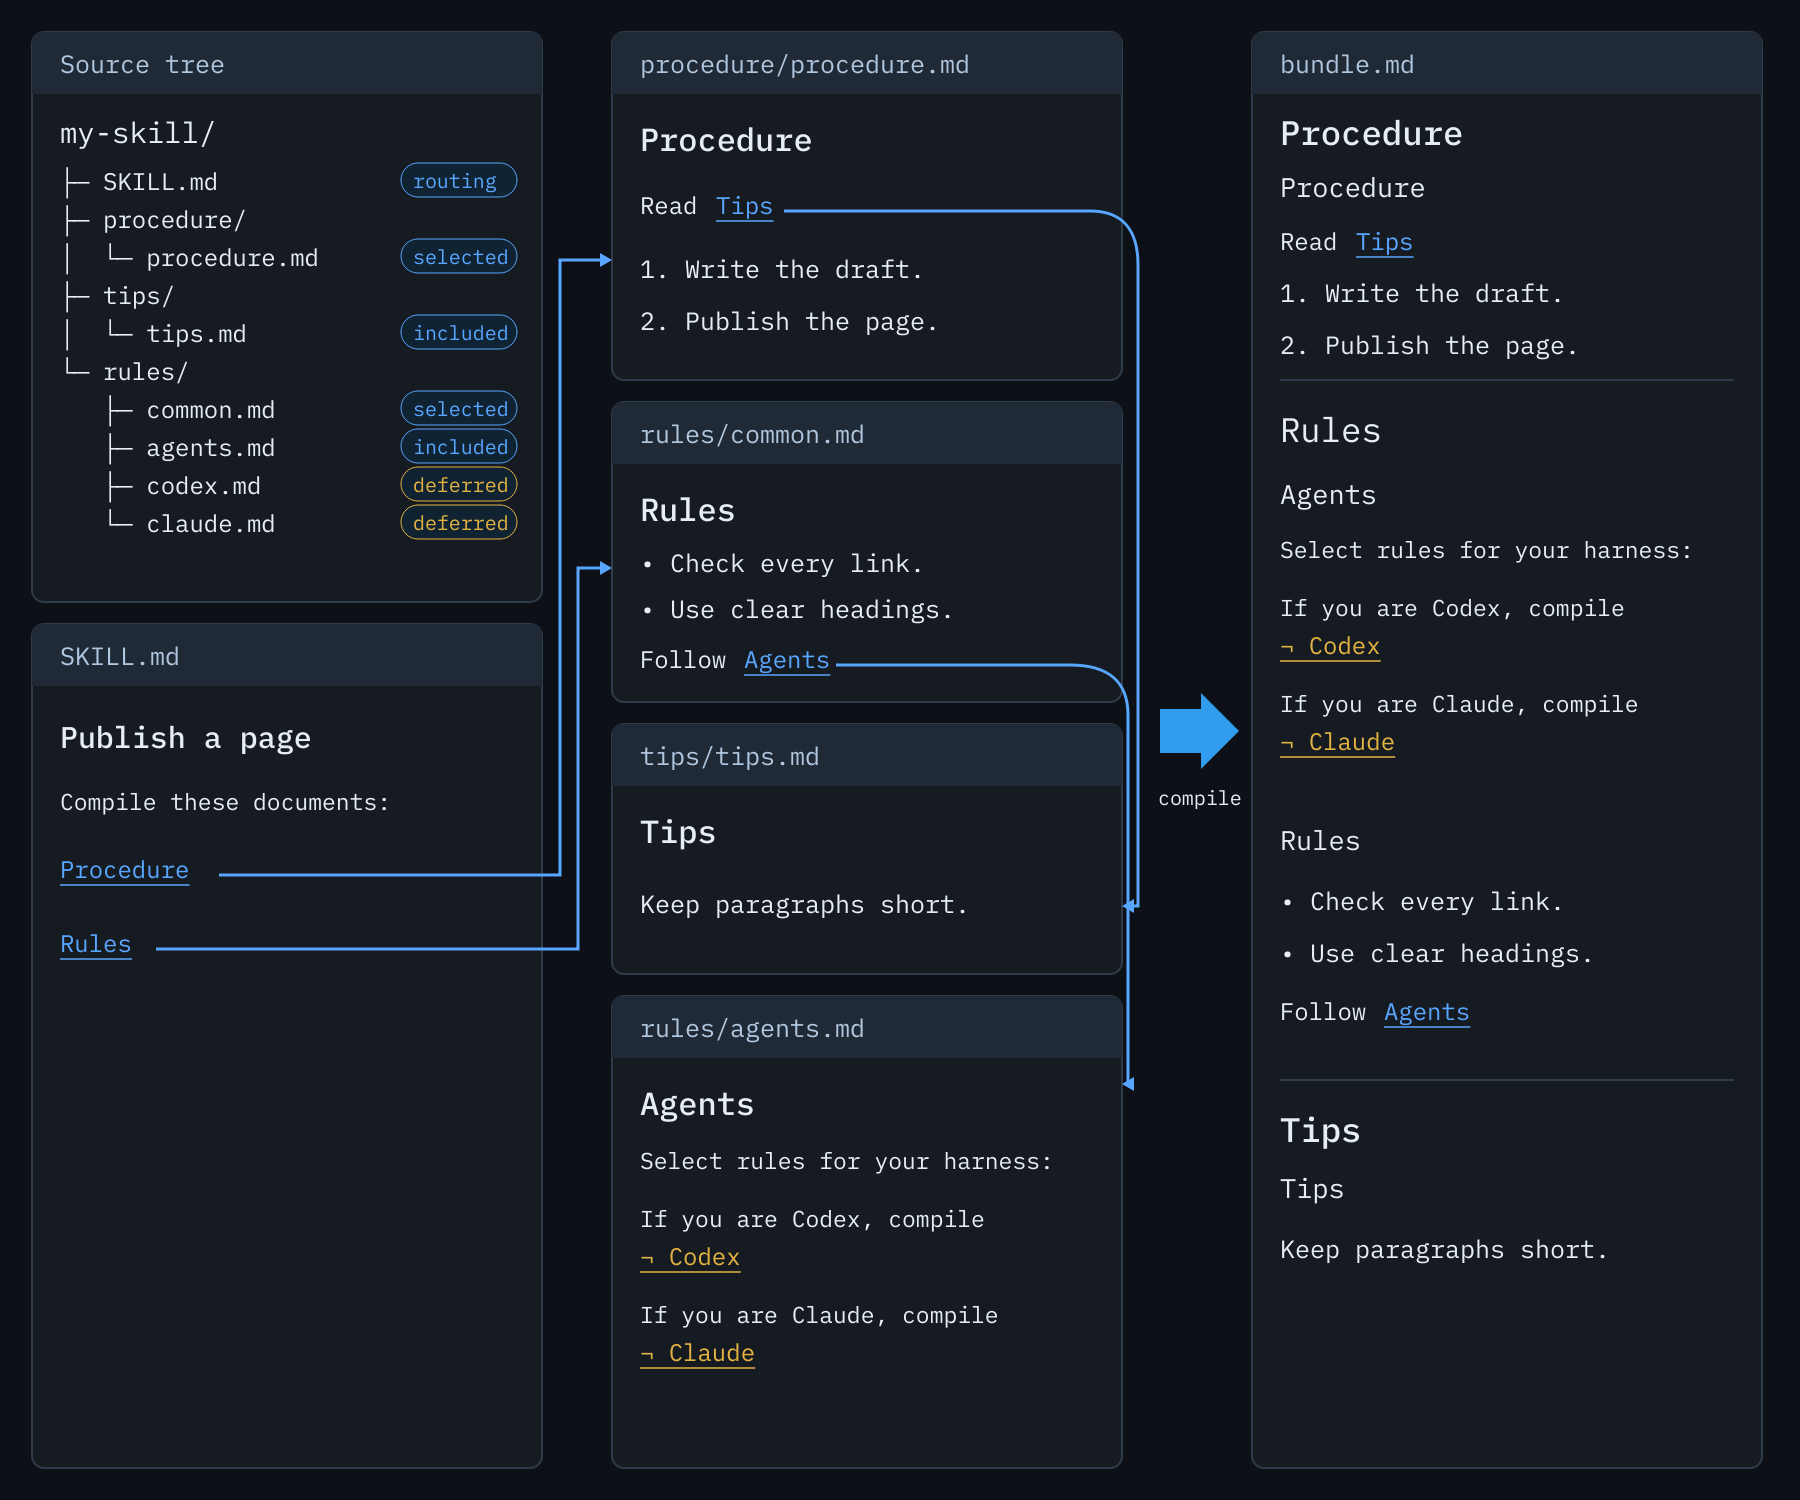
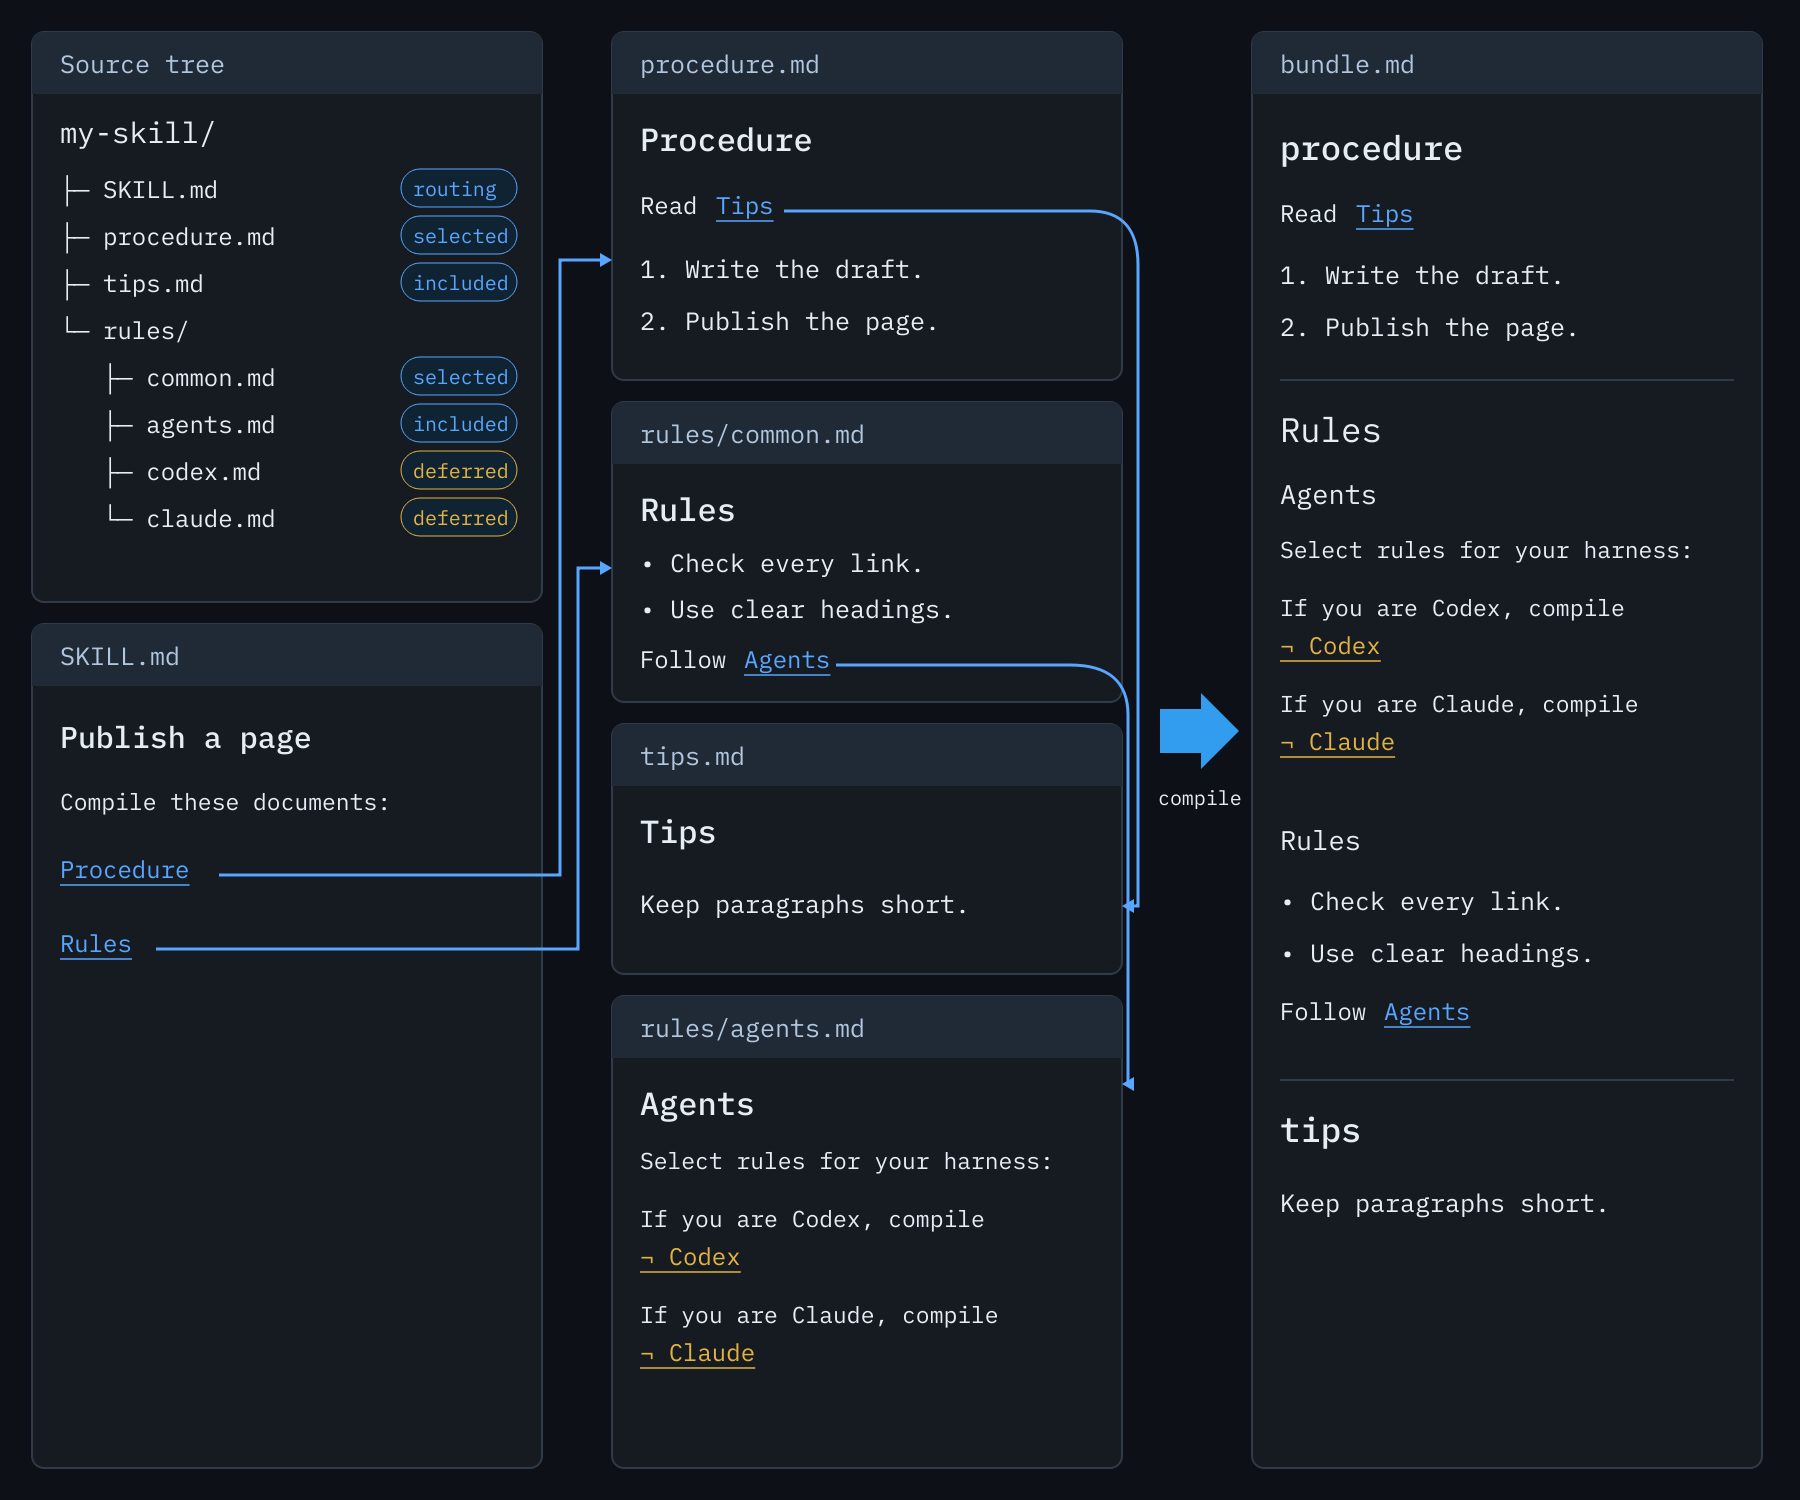
docs: keep procedure and tips at the example root

diff --git a/README.md b/README.md
@@ -33,11 +33,11 @@ Run these diagram examples from `example/`, using [my-skill](example/my-skill/SK
 
 ```bash
 prosiform --root my-skill \
-  --group procedure:1 --group rules:1 --group tips:1 \
-  --output bundle.md procedure/procedure.md rules/common.md
+  --group rules:1 \
+  --output bundle.md procedure.md rules/common.md
 ```
 
-![SKILL.md selects procedure/procedure.md and rules/common.md. Procedure includes tips/tips.md; Rules includes rules/agents.md. The bundle has Procedure, Rules, and Tips groups. Agents is a subsection of Rules and directs each harness to its deferred Codex or Claude rules. SKILL.md and the harness-specific rules are excluded.](docs/images/compilation.png)
+![SKILL.md selects procedure.md and rules/common.md. Procedure includes tips.md; Rules includes rules/agents.md. Agents is a subsection of the Rules group and directs each harness to its deferred Codex or Claude rules. SKILL.md and the harness-specific rules are excluded.](docs/images/compilation.png)
 
 #### Compile agent-specific rules
 

diff --git a/example/my-skill/SKILL.md b/example/my-skill/SKILL.md
@@ -2,6 +2,6 @@
 
 Compile these documents:
 
-[Procedure](procedure/procedure.md)
+[Procedure](procedure.md)
 
 [Rules](rules/common.md)

diff --git a/example/my-skill/procedure.md b/example/my-skill/procedure.md
@@ -1,6 +1,6 @@
 # Procedure
 
-Read [Tips](../tips/tips.md)
+Read [Tips](tips.md)
 
 1. Write the draft.
 2. Publish the page.
